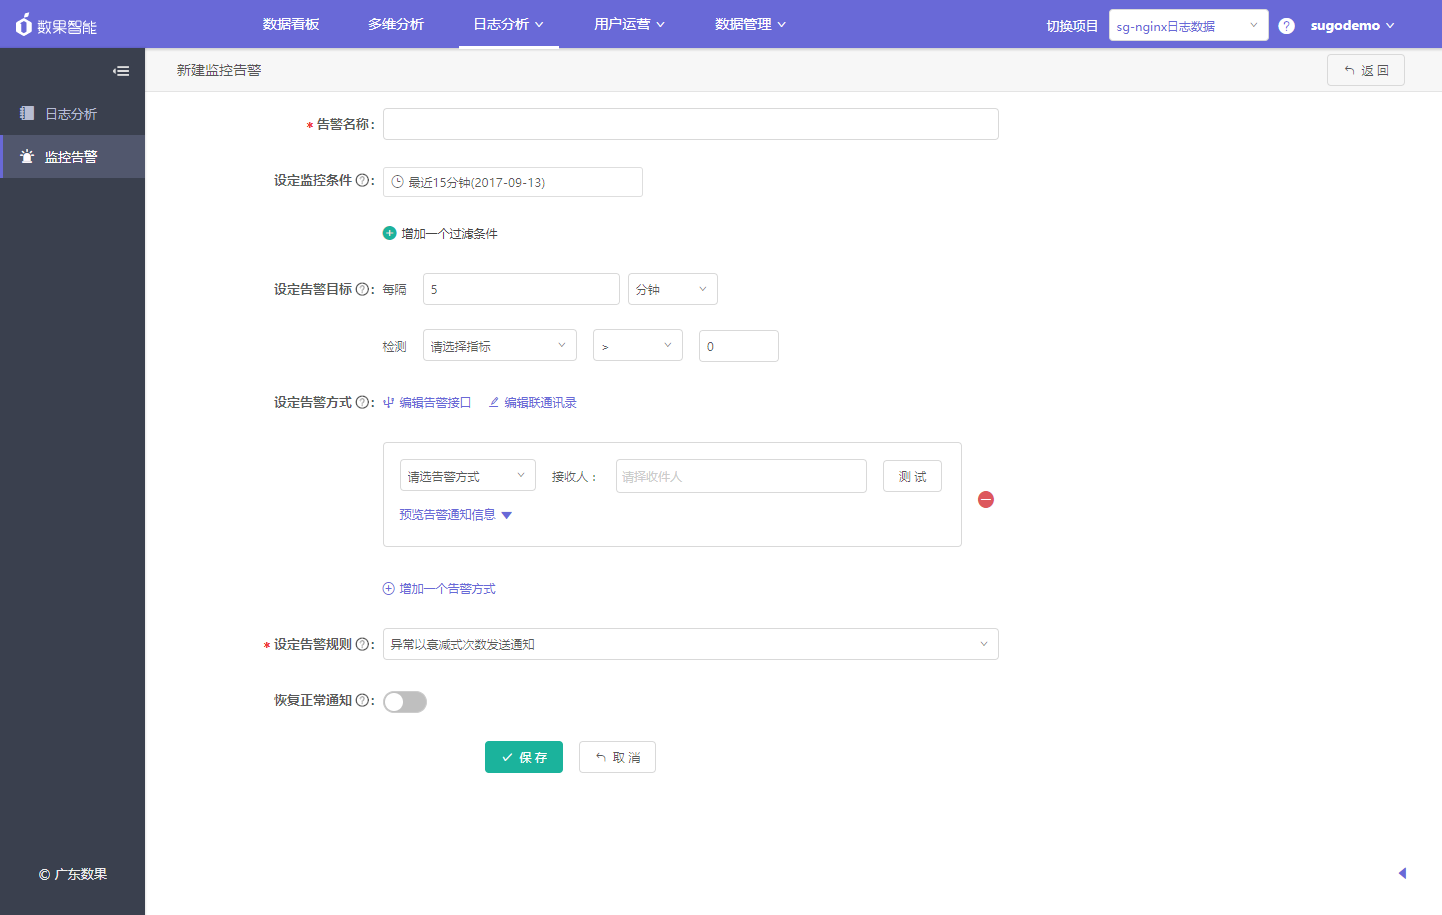
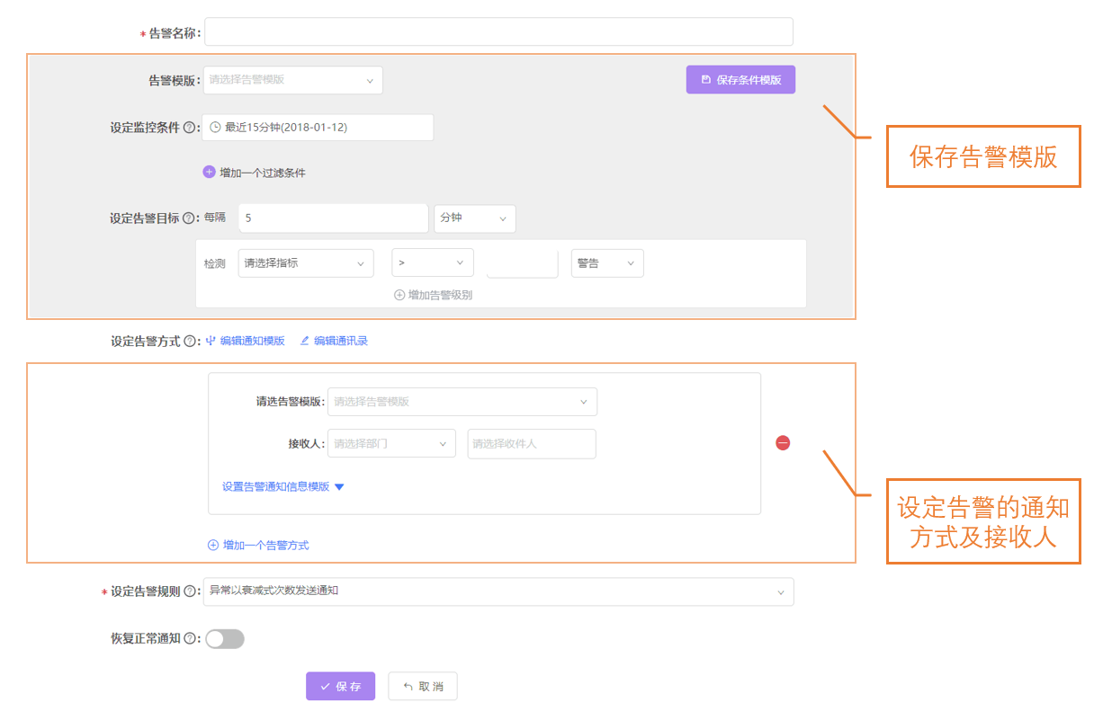
告警功能

diff --git a/analytics/monitoring.md b/analytics/monitoring.md
@@ -2,12 +2,14 @@
 
 监控告警是日志运维中最重要功能，数果可以轻松替您监控数据，我们可以把您关注的指标按预设计划周期性执行，当满足触发条件时我们会及时通知您。
 
-## 配置告警
+## 配置告警策略
   ![](/assets/log/mon-1.png)
 * 告警名称：自定义命名告警的名称，告警被触发时将推送此名称的告警。建议您填写能快速辨别的名称。
-* 设定监控条件：设定监控的过滤条件，那么会根据此条件来检测查询数据。
-* 检测频率：可自定义检测数据的时间间隔（最小频率为 3 分钟），根据设定的频率间隔来检测数据。
-* 设定告警的目标：指定告警的目标（此目标为发出告警的阀值），监控的指标达到该阀值就会发生异常告警。
+* 保存告警模版：将设定的监控条件与告警目标存为模版，下次可以直接选择便会调取该次存储的条件目标。
+	* 设定监控条件：设定监控的过滤条件，那么会根据此条件来检测查询数据。
+	* 检测频率：可自定义检测数据的时间间隔（最小频率为 3 分钟），根据设定的频率间隔来检测数据。
+	* 设定告警的目标：指定告警的目标（此目标为发出告警的阀值），监控的指标达到该阀值就会发生异常告警。
+	* 告警级别：支持最大设置三级告警级别：提醒、警告、严重。（例如：设定100阀值为提醒，二级设定500阀值为警告，三级设定1000阀值为严重。那么当异常数值为200时其告警级别为提醒；600时其告警级别为告警；1200时其告警级别为严重。）
 * 告警方式：配置收到告警的方式，数果支持短信告警、邮件告警和接口告警三种方式。同时支持点击测试发送是否成功
 * 设定告警规则：配置发生异常时，发送通知信息的规律。数果提供三种规律进行选择：
   1. 异常根据检测的次数发出衰减式告警通知，规律如下：1，2，3，5，8，13，21，34，55，89，144，233，377，610，987，1597，2584，4181，6765；
@@ -15,18 +17,133 @@
   3. 第一次的检测发生异常发送一次通知后，后面的异常不再通知，直至恢复正常。
 * 恢复正常通知：开启后每次异常的恢复均会发送通知信息，关闭则不发送恢复正常的通知信息。
 
-## 通讯录管理
-使用告警通讯录来管理告警的接收人信息，可快速选择告警接收人，无需多次填写接收人的联系方法。
-类似手机通讯录，可以对告警联系人进行便捷地管理，便于设定告警联系人的选择。
-  ![](/assets/log/mon-2.png)
+## 告警策略管理
 
-## 告警管理
- 
 在告警的列表中，我们可以对创建的告警进行管理。在列表中可以清楚地看到告警目前的状态，上次检测的时间与结果，发生异常的次数。同是能直接对不需要的告警暂停监控或者直接删除。
 需要注意的是：更新告警与重新运行告警都会将告警的异常次数重置。
  ![](/assets/log/mon-3.png)
 
-## 异常告警管理
+## 我的告警列表
 
 通过异常告警的列表，我们可以对监控告警中发生的异常且需要发送通知的记录存储下来。便于我们查询异常的记录以及统计异常的数量。
- ![](/assets/log/mon-4.png)
+
+### 未处理列表
+配置好告警的策略后，当发生异常需要告警的时候（告警的频率是通过上述配置告警策略选择的规则决定的），未处理列表就会产生一条异常记录。我们可以针对一条/多条进行处理/忽略的操作。
+![](/assets/log/mon-8.png)
+
+* **处理** 
+  
+  方式一：单条/批量转发处理选中的异常记录，转发处理的接收人会接收到设定的告警通知信息。确认处理后，选中的异常记录会转到处理中的状态。
+  ![](/assets/log/mon-5.png)
+  方式二：单条/批量直接处理选中的异常记录，选填备注。确认处理后，选中的异常记录会转到已处理的状态。
+    ![](/assets/log/mon-6.png)
+  
+* **忽略** 
+
+  单条/批量忽略选中的异常记录，选填备注。确认忽略后，选中的异常记录会转到已忽略的状态。
+  ![](/assets/log/mon-7.png)
+
+* **详情** 
+
+  详情可提供我们去回溯该条异常记录在发生异常那一刻的日志记录。点击详情，跟随着异常发生时的所有条件跳转到日志分析中，过滤出异常的日志数据。*注意：如果在异常发生后再调整告警的策略，那么历史异常记录条件依然为触发异常那一刻的条件，旧有的异常不受告警策略调整的影响。*
+### 处理中列表
+将异常记录转发处理后，我们可以在处理中的列表查找到这些异常的记录，针对一条/多条进行完成的操作。
+![](/assets/log/mon-9.png)
+* **完成** 
+
+  单条/批量完成选中的异常记录，选填备注。确认完成后，选中的异常记录会转到已处理的状态。
+
+* **详情** 
+
+  详情可提供我们去回溯该条异常记录在发生异常那一刻的日志记录。点击详情，跟随着异常发生时的所有条件跳转到日志分析中，过滤出异常的日志数据。*注意：如果在异常发生后再调整告警的策略，那么历史异常记录条件依然为触发异常那一刻的条件，旧有的异常不受告警策略调整的影响。*
+
+### 已忽略列表
+将异常记录忽略后，我们可以在已忽略的列表查找到这些异常的记录。
+![](/assets/log/mon-10.png)
+
+* **详情** 
+
+  详情可提供我们去回溯该条异常记录在发生异常那一刻的日志记录。点击详情，跟随着异常发生时的所有条件跳转到日志分析中，过滤出异常的日志数据。*注意：如果在异常发生后再调整告警的策略，那么历史异常记录条件依然为触发异常那一刻的条件，旧有的异常不受告警策略调整的影响。*
+
+### 已处理列表
+将异常记录直接处理/完成后，我们可以在已处理的列表查找到这些异常的记录。
+![](/assets/log/mon-11.png)
+
+* **详情** 
+
+  详情可提供我们去回溯该条异常记录在发生异常那一刻的日志记录。点击详情，跟随着异常发生时的所有条件跳转到日志分析中，过滤出异常的日志数据。*注意：如果在异常发生后再调整告警的策略，那么历史异常记录条件依然为触发异常那一刻的条件，旧有的异常不受告警策略调整的影响。*
+
+## 配置管理
+### 通知模版管理
+通知模版管理更便于我们去管理要发送的告警通知信息，针对不同的信息类型、不同的发送对象，都可以去定义不同的信息模版。
+![](/assets/log/mon-12.png)
+通知模版变量说明：
+* ${projectName}：项目名称。示例：南航移动 APP
+* ${monitorName}：告警策略名称。示例：业务 A 的接口 B 告警
+* ${failureTime}：检测到异常/正常的时间。示例：2017 年 12 月 9 日 13 时
+30 分 25 秒
+* ${rules}：触发告警的异常告警值。示例：总记录数[16314] 大于 6000
+* $ {filter}：告警策略的过滤条件。示例：最近 15 分钟（2017-12-09），产品
+线包含 A、B，系统包含 Q
+* ${level}：此次告警的级别。示例：严重
+
+### 通讯录管理
+使用告警通讯录来管理告警的接收人信息，可快速选择告警接收人，无需多次填写接收人的联系方法。
+类似手机通讯录，可以对告警联系人进行便捷地管理，便于设定告警联系人的选择。
+* 部门管理：用于管理接收人
+  ![](/assets/log/mon-13.png)
+
+* 创建接收人
+
+  ![](/assets/log/mon-14.png)
+
+***
+
+# 错误码管理<div id="error-code"></div>
+错误码定义为一组字母与数字的结合，能与错误信息建立关联，用于识别在系统中出现的各种异常情况。
+ ![](/assets/log/error-1.png)
+通过错误码，可以实现以下目的：
+1. 通过错误码我们能识别出系统到底出了什么问题；
+2. 通过错误码我们应当能识别出哪个系统出了问题；
+3. 通过错误码我们可以决策出该给客户显示出了什么问题。
+
+为了达到上述的目的，需要对错误码的命名及使用进行统一的管理，并将含有错误码的后台日志实时推送到数果平台进行分析处理。
+
+## 错误码界面
+
+ ![](/assets/log/error-7.png)
+
+## 系统管理
+系统是最大的管理级别，创建产品线/接口方/错误码都需要预先创建系统。系统管理是对系统进行新增、编辑、删除操作管理的功能。
+
+ ![](/assets/log/error-2.png)
+
+## 产品线管理
+产品线是基于系统下面的功能模块，在创建接口方/错误码前同样需要预先创建产品线。产品线管理是对产品线进行新增、编辑、删除操作管理的功能。
+
+ ![](/assets/log/error-3.png)
+
+## 接口方管理
+接口方是产品功能模块下所使用到的接口，通常非所有的错误码都必要拥有一个接口方。因此错误码如无接口方，我们可以不需要预先创建；如错误码包含接口方，有则需要预先创建接口方。
+接口方管理是对接口方进行新增、编辑、删除操作管理的功能。
+
+ ![](/assets/log/error-4.png)
+
+ ## 新增错误码
+ 错误码受系统与产品线的约束管理，若存在接口方则错误码开头含有英文字母，若不存在接口方则错误码为纯数字。
+
+  ![](/assets/log/error-8.png)
+### 方式一：直接添加
+选择错误码关联的系统/产品线，填写错误码（包含/不含英文）与描述，点击添加即可。
+
+  ![](/assets/log/error-5.png)
+
+### 方式二：文件上传
+用文件上传的方式能帮我们节省很多，但需要注意上传的文件格式规范，可点击下载样例文件参照我们提供的格式进行上传。
+```
+文件编码请设置为utf8
+
+文件内容格式为：系统代码,产品线,错误码,错误码描述。各字段以英文逗号分隔，一条记录独占一行。
+```
+  ![](/assets/log/error-6.png)
+  上传后，我们可以看到文件的上传进度以及成功/出错的条数。若文件过大，我们也能随时暂停后等空闲时间再继续上传。

diff --git a/SUMMARY-tsa.md b/SUMMARY-tsa.md
@@ -39,6 +39,7 @@
   * [日志记录](analytics/log.md)
   * [图表统计](analytics/log.md#graphic)
 * [监控告警](analytics/monitoring.md)
+  * [错误码管理](analytics/monitoring.md#error-code)
 * [用户运营](user/user-operation.md)
   * [用户指标](user/user-quota.md)
   * [场景数据设置](user/user-operation.md#scene-setting)
@@ -86,7 +87,3 @@
         * [hadoop接入](developer/data-access/hadoop.md)
         * [数据段合并](developer/data-access/merge-druid.md)
       * [parser 类型](developer/data-access/parser.md)
-  * 青云环境部署文档
-    * [单机版部署](qingcloud/stand-alone.md)
-    * [集群版部署](qingcloud/cluster.md)
-
